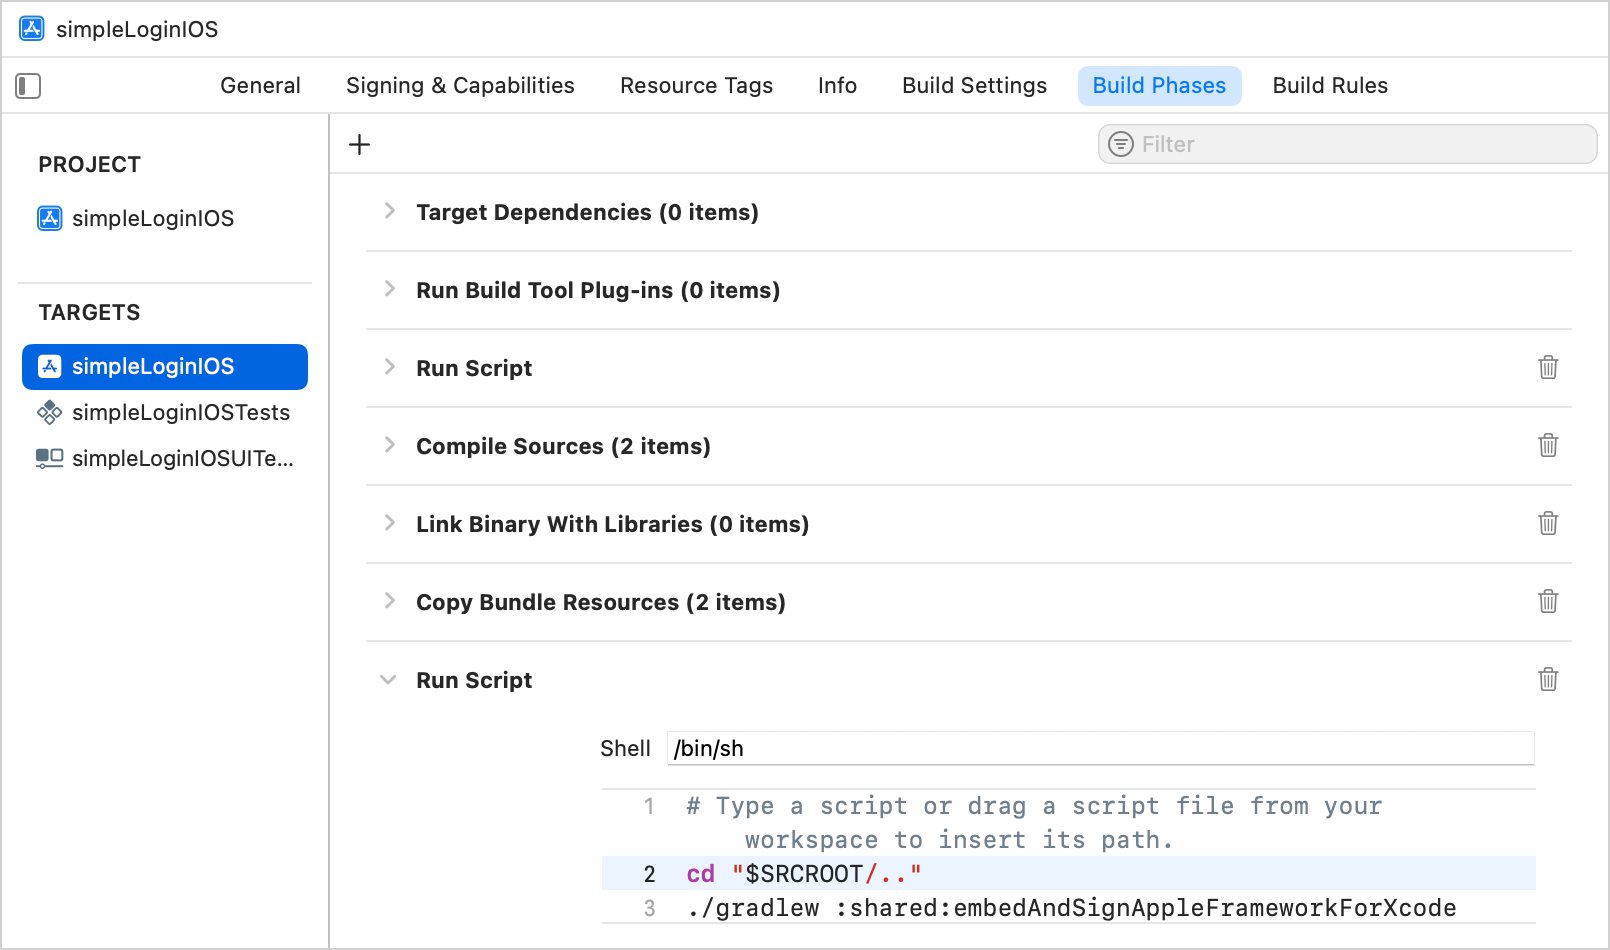
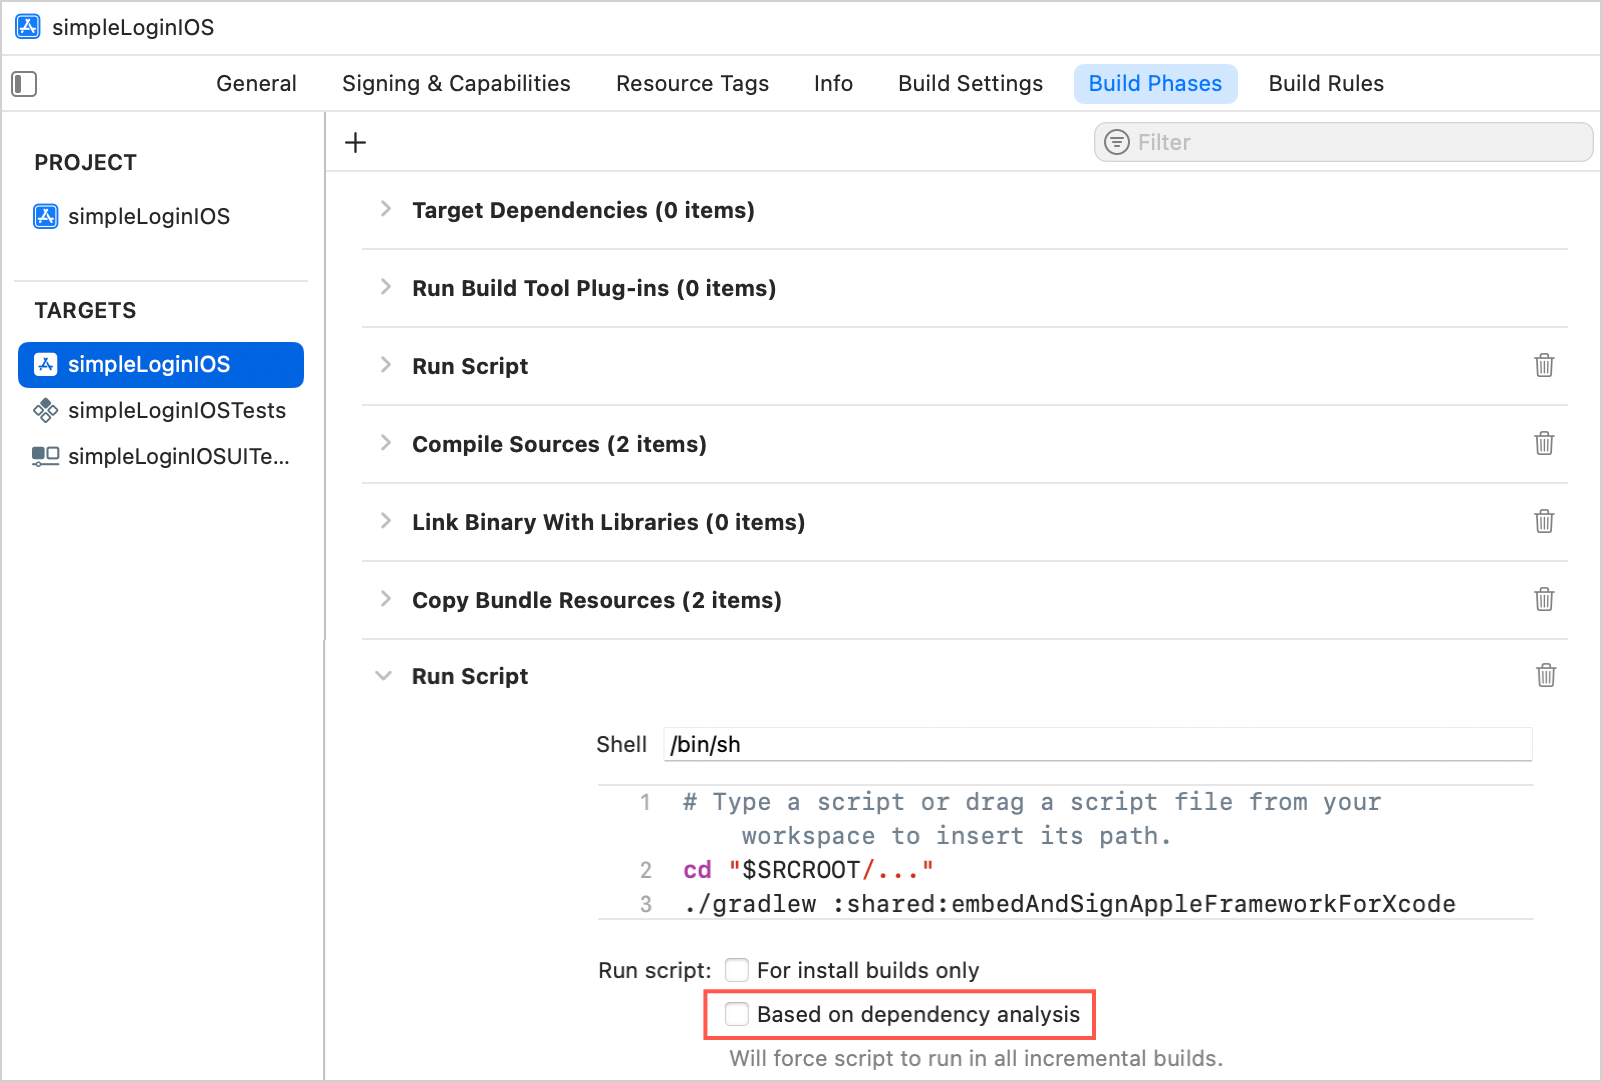
update: direct integration instructions

diff --git a/topics/multiplatform-integrate-in-existing-app.md b/topics/multiplatform-integrate-in-existing-app.md
@@ -377,30 +377,30 @@ You can set up integration between the iOS app and the framework built by Kotlin
 Alternatives to this method are covered in the [iOS integration methods overview](multiplatform-ios-integration-overview.md),
 but they are beyond the scope of this tutorial.
 
-1. In Xcode, open the iOS project settings by double-clicking the project name in the **Project** navigator.
-
-2. In the **Targets** section on the left, select **simpleLoginIOS**, then click the **Build Phases** tab.
-
+1. In Xcode, open the iOS project settings by double-clicking the project name.
+2. In the **Targets** section on the left, select **simpleLoginIOS**, then navigate to the **Build Phases** tab.
 3. Click the **+** icon and select **New Run Script Phase**.
 
     ![Add a run script phase](xcode-run-script-phase-1.png){width=700}
 
-    The new phase is created at the bottom of the list.
-
-4. Click the **>** icon to expand the created **Run Script** item, then paste the following script in the text field:
+4. Paste the following script in the run script field:
 
     ```text
     cd "$SRCROOT/.."
     ./gradlew :shared:embedAndSignAppleFrameworkForXcode
     ```
 
-   ![Add the script](xcode-add-run-phase-2.png){width=700}
+   ![Add the script](xcode-run-script-phase-2.png){width=700}
 
-5. Move the **Run Script** phase higher in the order, placing it before the **Compile Sources** phase:
+5. Disable **Based on dependency analysis** option.
+
+   This ensures that Xcode runs the script during every build and doesn't complain about missing output dependencies.
+
+6. Move the **Run Script** phase higher, placing it before the **Compile Sources** phase:
 
    ![Move the Run Script phase](xcode-run-script-phase-3.png){width=700}
 
-6. Click the **Build Settings** tab, then find and disable the **User Script Sandboxing** option under **Build Options**:
+7. On the **Build Settings** tab, disable the **User Script Sandboxing** option under **Build Options**:
 
    ![User Script Sandboxing](disable-sandboxing-in-xcode-project-settings.png){width=700}
 
@@ -409,16 +409,19 @@ but they are beyond the scope of this tutorial.
    >
    {style="note"}
 
-7. Build the project in Xcode (**Product** | **Build** in the main menu).
+8. Build the project in Xcode (**Product** | **Build** in the main menu).
     If everything is configured correctly, the project should build successfully 
     (you can safely ignore the "build phase will be run during every build" warning)
    
     > Build may fail if you built the project before disabling the **User Script Sandboxing** option:
     > the Gradle daemon process may be sandboxed and needs to be restarted.
     > Stop it before building the project again by running this command in the project directory (`kmp-integration-sample` in our example):
+    > 
     > ```shell
     > ./gradlew --stop
     > ```
+    > 
+    {style="note"}
 
 ### Set up an iOS run configuration in Android Studio
 

diff --git a/topics/development/multiplatform-direct-integration.md b/topics/development/multiplatform-direct-integration.md
@@ -53,11 +53,12 @@ To connect the Kotlin framework generated from the multiplatform project to your
 1. The `embedAndSignAppleFrameworkForXcode` task only registers if the `binaries.framework` configuration option is
    declared. In your Kotlin Multiplatform project, check the iOS target declaration in the `build.gradle.kts` file.
 2. In Xcode, open the iOS project settings by double-clicking the project name.
-3. On the **Build Phases** tab of the project settings, click **+** and select **New Run Script Phase**.
+3. In the **Targets** section on the left, select your target, then navigate to the **Build Phases** tab.
+4. Click **+** and select **New Run Script Phase**.
 
    ![Add run script phase](xcode-run-script-phase-1.png){width=700}
 
-4. Adjust the following script and copy the result to the run script phase:
+5. Adjust the following script and paste the result in the run script field:
 
    ```bash
    cd "<Path to the root of the multiplatform project>"
@@ -69,11 +70,14 @@ To connect the Kotlin framework generated from the multiplatform project to your
 
    ![Add the script](xcode-run-script-phase-2.png){width=700}
 
-5. Drag the **Run Script** phase before the **Compile Sources** phase.
+6. Disable **Based on dependency analysis** option.
+
+   This ensures that Xcode runs the script during every build and doesn't complain about missing output dependencies.
+7. Move the **Run Script** phase higher, placing it before the **Compile Sources** phase.
 
    ![Drag the Run Script phase](xcode-run-script-phase-3.png){width=700}
 
-6. On the **Build Settings** tab, disable the **User Script Sandboxing** option under **Build Options**:
+8. On the **Build Settings** tab, disable the **User Script Sandboxing** option under **Build Options**:
 
    ![User Script Sandboxing](disable-sandboxing-in-xcode-project-settings.png){width=700}
 
@@ -85,7 +89,7 @@ To connect the Kotlin framework generated from the multiplatform project to your
    >
    > {style="tip"}
 
-7. Build the project in Xcode. If everything is set up correctly, the project will successfully build.
+9. Build the project in Xcode. If everything is set up correctly, the project will successfully build.
 
 > If you have a custom build configuration different from the default `Debug` or `Release`, on the **Build Settings**
 > tab, add the `KOTLIN_FRAMEWORK_BUILD_TYPE` setting under **User-Defined** and set it to `Debug` or `Release`.
